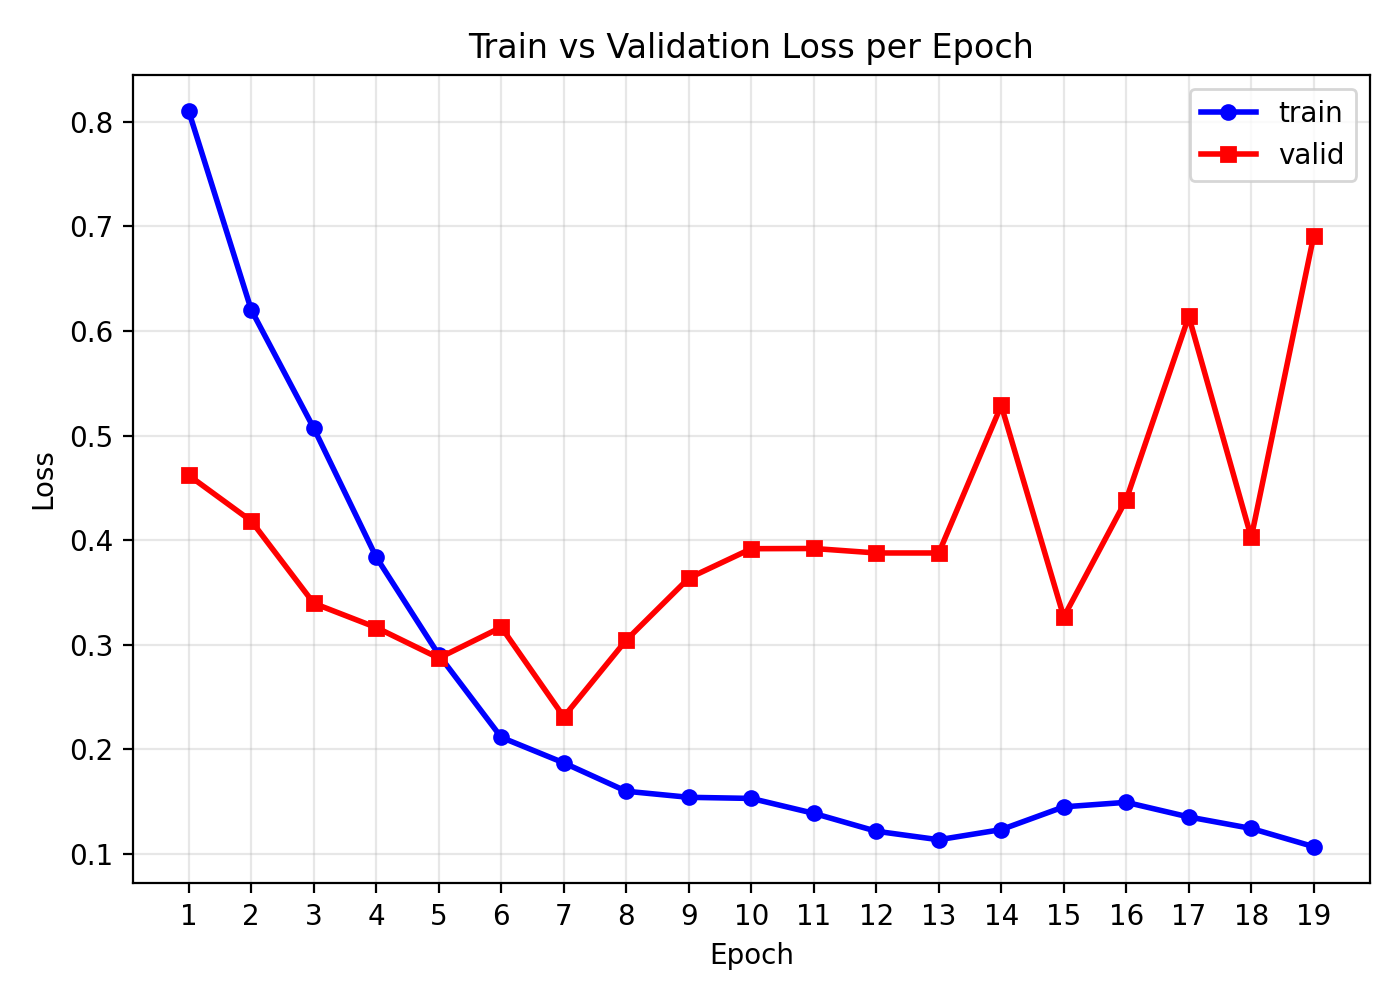
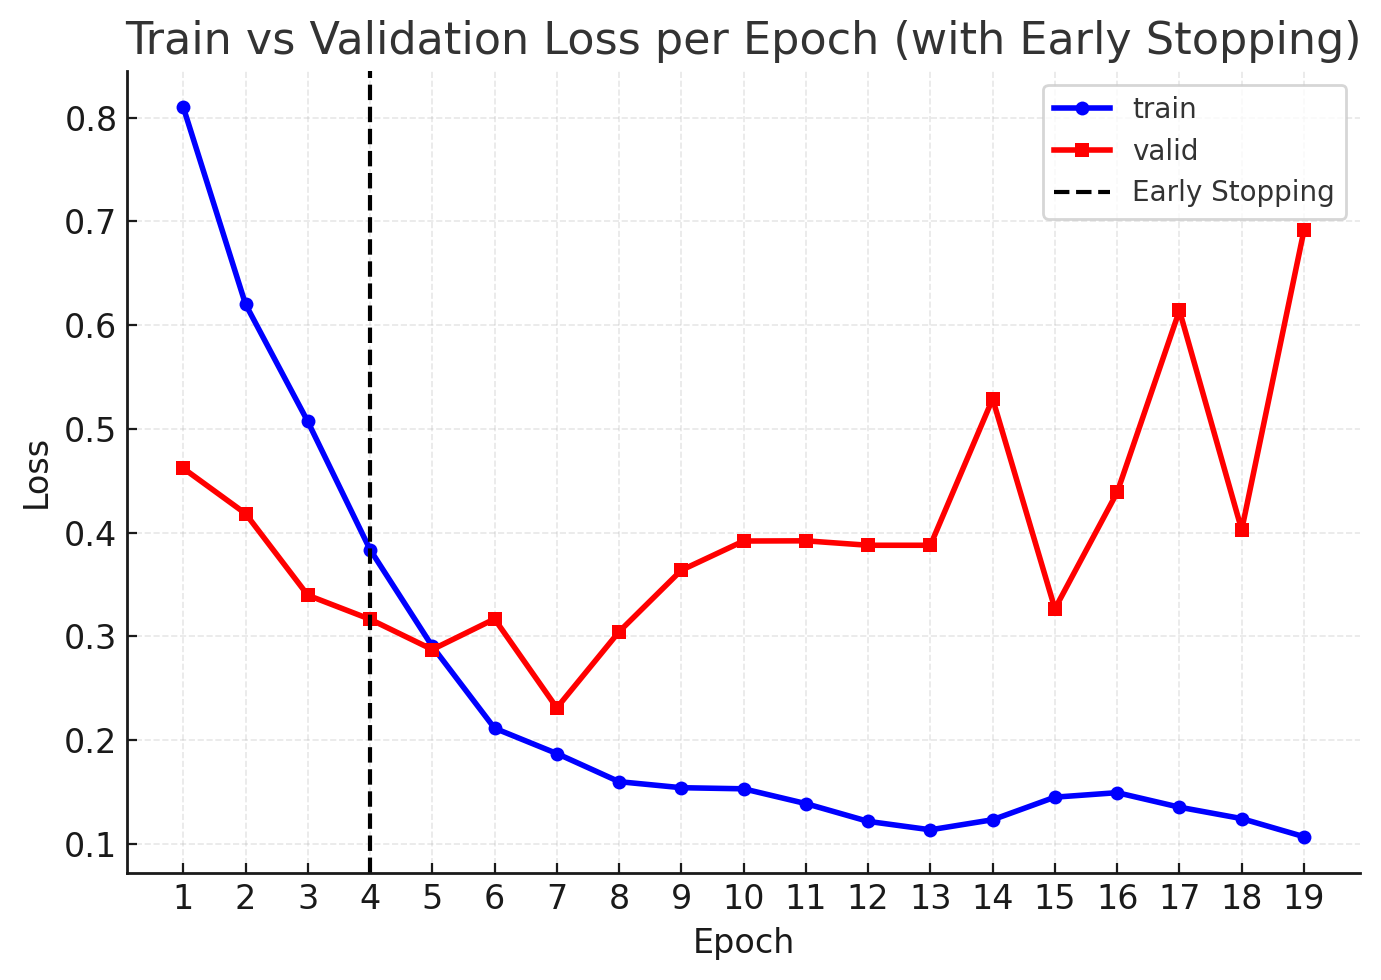
Build predict pipeline and streamlit app

diff --git a/app.py b/app.py
@@ -1,5 +1,6 @@
 import streamlit as st
 from fastai.vision.all import *
+import pandas as pd
 from src.utils import MODELS_DIR
 
 LEARNER_PATH = MODELS_DIR / "resnet34_export_20251023-222020.pkl"
@@ -12,5 +13,25 @@ if file:
     img = PILImage.create(file)
     st.image(img.to_thumb(512,512))
     pred, pred_idx, probs = learn.predict(img)
+
+    df_probs = pd.DataFrame({
+        "Class": learn.dls.vocab,
+        "Probability": [100 * float(p) for p in probs]
+    }).sort_values(by="Probability", ascending=False)
+
     st.subheader(f"Predict: **{pred}**")
-    st.write({learn.dls.vocab[i]: float(probs[i]) for i in range(len(probs))})
+
+    st.dataframe(
+        df_probs,
+        column_config={
+            "Probability": st.column_config.ProgressColumn(
+                "Probability",
+                help="Model confidence",
+                format="%.2f %%",  
+                min_value=0.0,
+                max_value=100.0,
+            )
+        },
+        hide_index=True,
+        use_container_width=True
+    )

diff --git a/src/predict.py b/src/predict.py
@@ -4,7 +4,7 @@ from utils import MODELS_DIR
 LEARNER_PATH = MODELS_DIR / "resnet34_export_20251023-222020.pkl"
 
 def predict_image(img_path: str):
-    learn = load_learner(LEARNER_PATH)  # carrega .pkl exportado
+    learn = load_learner(LEARNER_PATH)
     pred, pred_idx, probs = learn.predict(img_path)
     return str(pred), float(probs[pred_idx])
 
@@ -12,4 +12,4 @@ if __name__ == "__main__":
     import sys
     img = sys.argv[1]
     label, conf = predict_image(img)
-    print(f"Predição: {label} ({conf:.3f})")
+    print(f"Predict: {label} ({conf:.3f})")

diff --git a/README.md b/README.md
@@ -10,55 +10,45 @@ A simple multiclass image classifier built with FastAI + PyTorch to identify dif
 
 ## Objective
 Build a Computer Vision model that classifies images across multiple sports categories. The full pipeline includes:
-- Automatic creation of class folders
-- Train/validation split
-- Training with a pretrained ResNet34
-- Fine-tuning
-- Result interpretation (confusion matrix and top losses)
+- Automatic class folder creation  
+- Train/validation data split  
+- Model fine-tuning  
+- Performance reports (confusion matrix, top losses)
 
 ---
 
 ## Project Structure
-```
+
+```bash
 fastai-balls-classifier/
-├── data/
-│   ├── raw/
-│   └── processed/
-│
-├── notebooks/
-│   └── 01_experiments.ipynb   # tests and initial experiments
-│
-├── src/
-│   ├── train.py               # final training + fine-tuning
-│   ├── predict.py             # inference on new images
-│   ├── prepare_split.py       # optional train/validation split
-│   └── utils.py               # helper functions
-│
-├── models/
-│   └── resnet34_export.pkl    # exported model
-│
-├── reports/
-│   ├── confusion_matrix.png
-│   ├── top_losses.png
-│   └── lr_find.png
-│
-├── app/
-│   └── app.py                 # Streamlit demo
-│
-├── README.md
-├── requirements.txt
-└── .gitignore
+├── data/              # raw and processed images
+├── notebooks/         # experiments and prototyping
+├── src/               # training and utils scripts
+├── models/            # saved and exported models
+├── reports/           # plots and metrics
+├── app.py             # Streamlit demo
+└── requirements.txt
 ```
+
+You can setup by running:
+```bash
+pip install -r requirements.txt
+```
+
 
 ## Fitting ResNet34 pre-trained model
 ```bash
 python src/train.py
 ```
-- Building FastAI DataLoaders  
-- Fitting the head layer (frozen base) to adapt the pretrained ResNet to the new classes
-- Unfreezing the entire network and performing fine-tuning
-- Automatically saving the best model weights
-- Generating training reports
+- Builds FastAI DataLoaders
+- Trains the head layer (frozen base)
+- Unfreezes and fine-tunes the entire network
+- Saves the best model automatically
+- Generates reports and plots
+
+![train_val_loss_epochs](./reports/train_val_loss_epochs.png)
+
+**Note**: The validation loss becomes unstable after a few epochs, indicating overfitting due to the small dataset size and the model starting to memorize the training data.
 
 ## Results
 
@@ -72,7 +62,19 @@ python src/train.py
 
 ![Confusion Matrix](./reports/confusion_matrix.png)
 
-## 
+## Predicting
+
+You can predict from the command line:
+```bash
+python src/predict.py ./data/sample/dragonball.png
+```
+or launch the Streamlit app
+
+```bash
+streamlit run app.py
+```
+
+![streamlit_example](./reports/streamlit_example.png)
 
 
 
